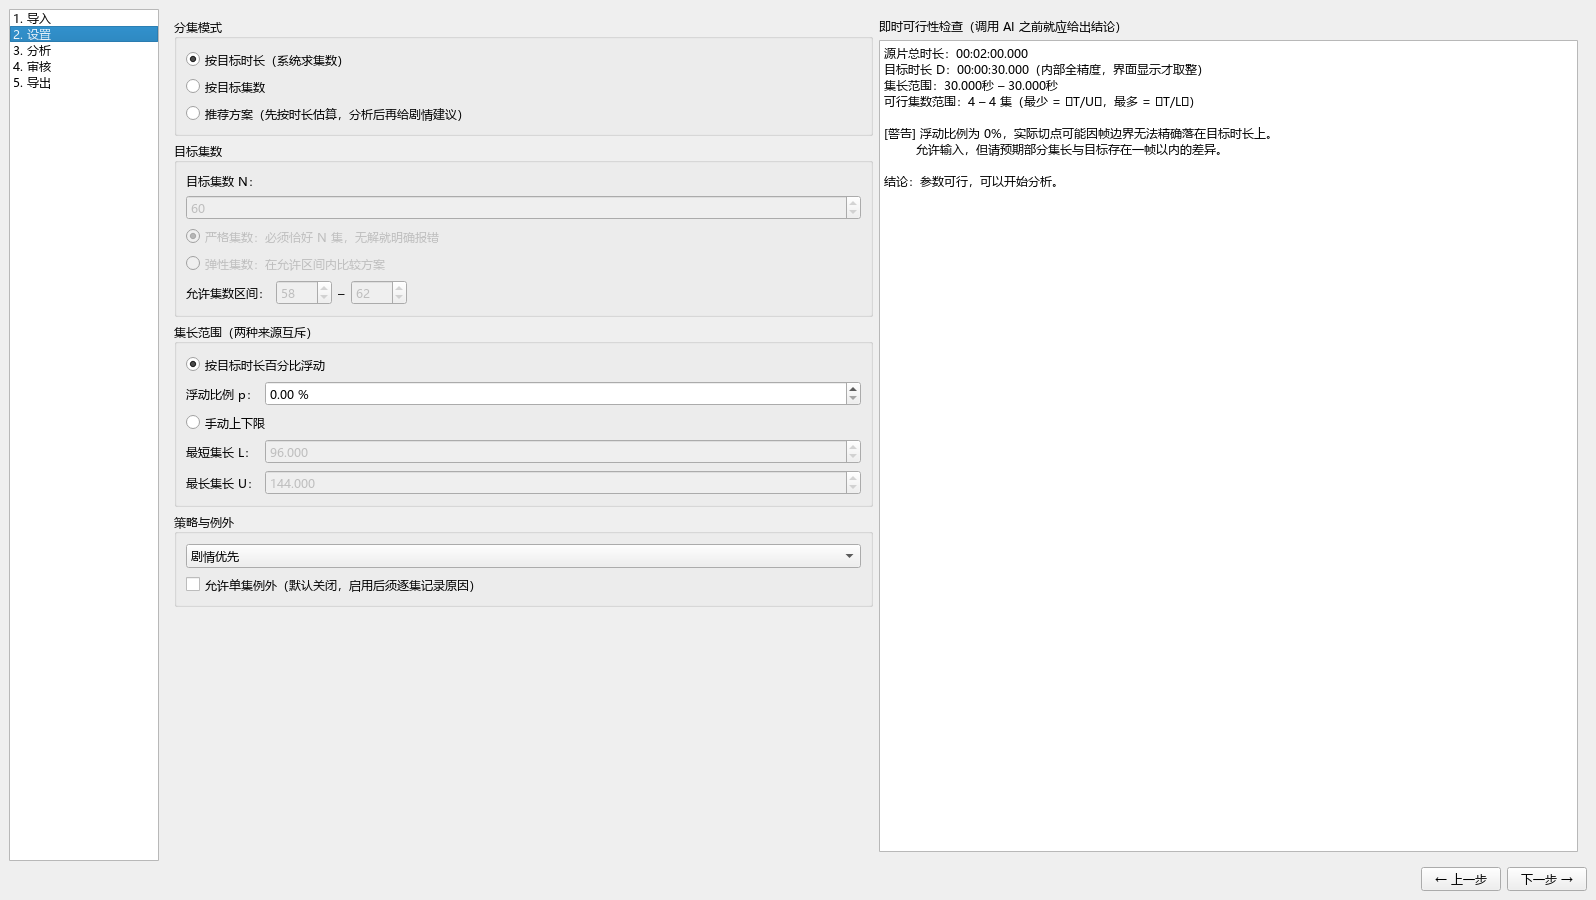
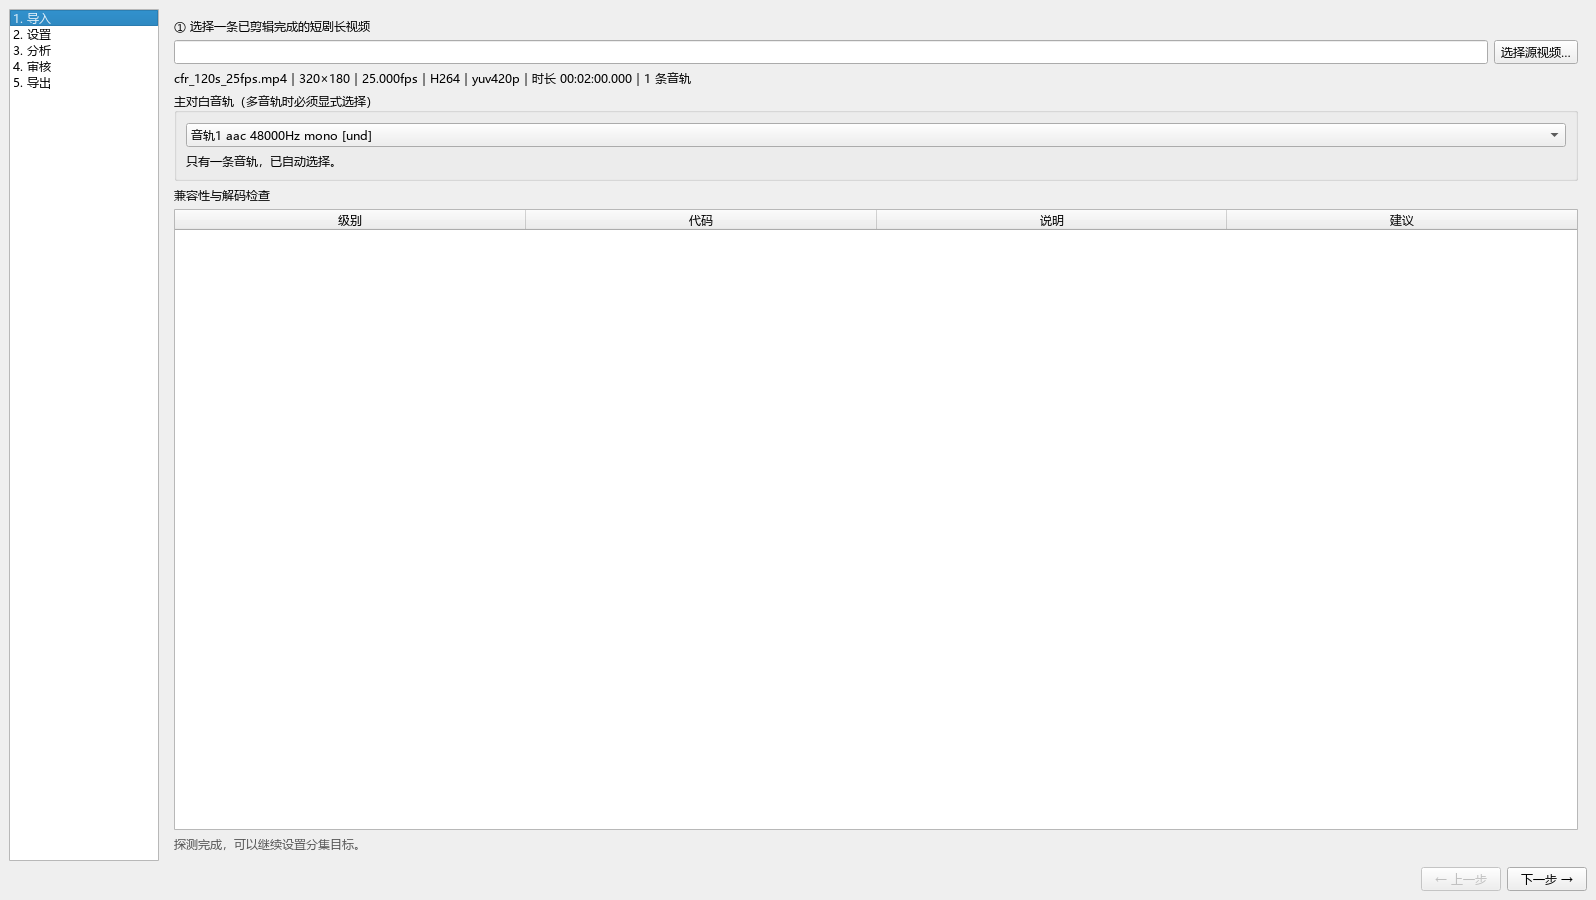
fix: 修正截图抓错页面，并调整导入页音轨选择位置
截图脚本（tools/screenshot_gui.py）
- 「导入」截图原本在切到设置页之后才抓，导致 01 与 02 是同一张图（MD5 相同），
  README 的截图表格静默变成错的。改为在切换页面之前抓取。
- 新增内容哈希去重断言：任意两张截图内容相同即报错退出。
  这类错误靠文件名看不出来，必须用内容兜住。

导入页（app/gui/main_window.py）
- 主对白音轨选择是必填项（§17.1 多音轨时必须显式选择），原先排在兼容性问题
  表格之后，被空表格挤到页面底部、需要滚动才能看到。改为排在表格之前。

diff --git a/tools/screenshot_gui.py b/tools/screenshot_gui.py
@@ -126,6 +126,16 @@ def main() -> int:
     wait_until(app, lambda: window.import_page._worker and not window.import_page._worker.isRunning())
     pump(app)
 
+    def shot(name: str, widget) -> None:
+        pixmap = widget.grab()
+        target = OUT / name
+        pixmap.save(str(target), "PNG")
+        print(f"  {target.relative_to(ROOT)}  {pixmap.width()}×{pixmap.height()}")
+
+    print("生成截图：")
+    # 必须在切换到设置页**之前**抓导入页，否则抓到的还是设置页
+    shot("01-导入.png", window)
+
     # 设置：目标 30 秒、0% 浮动 → 4 集
     window.nav.setCurrentRow(1)
     pump(app)
@@ -135,15 +145,6 @@ def main() -> int:
     page.duration_spin.setValue(30.0)
     page.tolerance_spin.setValue(0.0)
     pump(app)
-
-    def shot(name: str, page_widget) -> None:
-        pixmap = page_widget.grab()
-        target = OUT / name
-        pixmap.save(str(target), "PNG")
-        print(f"  {target.relative_to(ROOT)}  {pixmap.width()}×{pixmap.height()}")
-
-    print("生成截图：")
-    shot("01-导入.png", window)
     shot("02-设置.png", window)
 
     # 分析
@@ -173,7 +174,25 @@ def main() -> int:
     shot("05-导出.png", window)
 
     window.review_page._player.stop()
-    print("完成。")
+
+    # 内容去重：抓错页面（例如两次都抓到同一页）会让截图表格静默变成错的，
+    # 而这种错误靠人眼看文件名是发现不了的 —— 必须用内容哈希兜住。
+    import hashlib
+
+    digests: dict[str, str] = {}
+    duplicates: list[str] = []
+    for path in sorted(OUT.glob("*.png")):
+        digest = hashlib.md5(path.read_bytes()).hexdigest()
+        if digest in digests:
+            duplicates.append(f"{digests[digest]} 与 {path.name} 内容完全相同")
+        digests[digest] = path.name
+    if duplicates:
+        print("截图内容重复：")
+        for item in duplicates:
+            print("  !! " + item)
+        return 1
+
+    print(f"完成：{len(digests)} 张截图，内容互不相同。")
     return 0
 
 

diff --git a/app/gui/main_window.py b/app/gui/main_window.py
@@ -200,10 +200,12 @@ class ImportPage(QWidget):
         layout.addWidget(QLabel("① 选择一条已剪辑完成的短剧长视频"))
         layout.addLayout(row)
         layout.addWidget(self.summary)
-        layout.addWidget(self.issues, 1)
+        # 音轨选择是必填项（§17.1 多音轨时必须显式选择），放在兼容性问题表之前，
+        # 否则会被问题表格挤到页面底部，用户要滚动才能看到
         layout.addWidget(audio_group)
+        layout.addWidget(QLabel("兼容性与解码检查"))
+        layout.addWidget(self.issues, 1)
         layout.addWidget(self.status)
-        layout.addStretch(0)
 
     def _choose_file(self) -> None:
         path, _ = QFileDialog.getOpenFileName(
